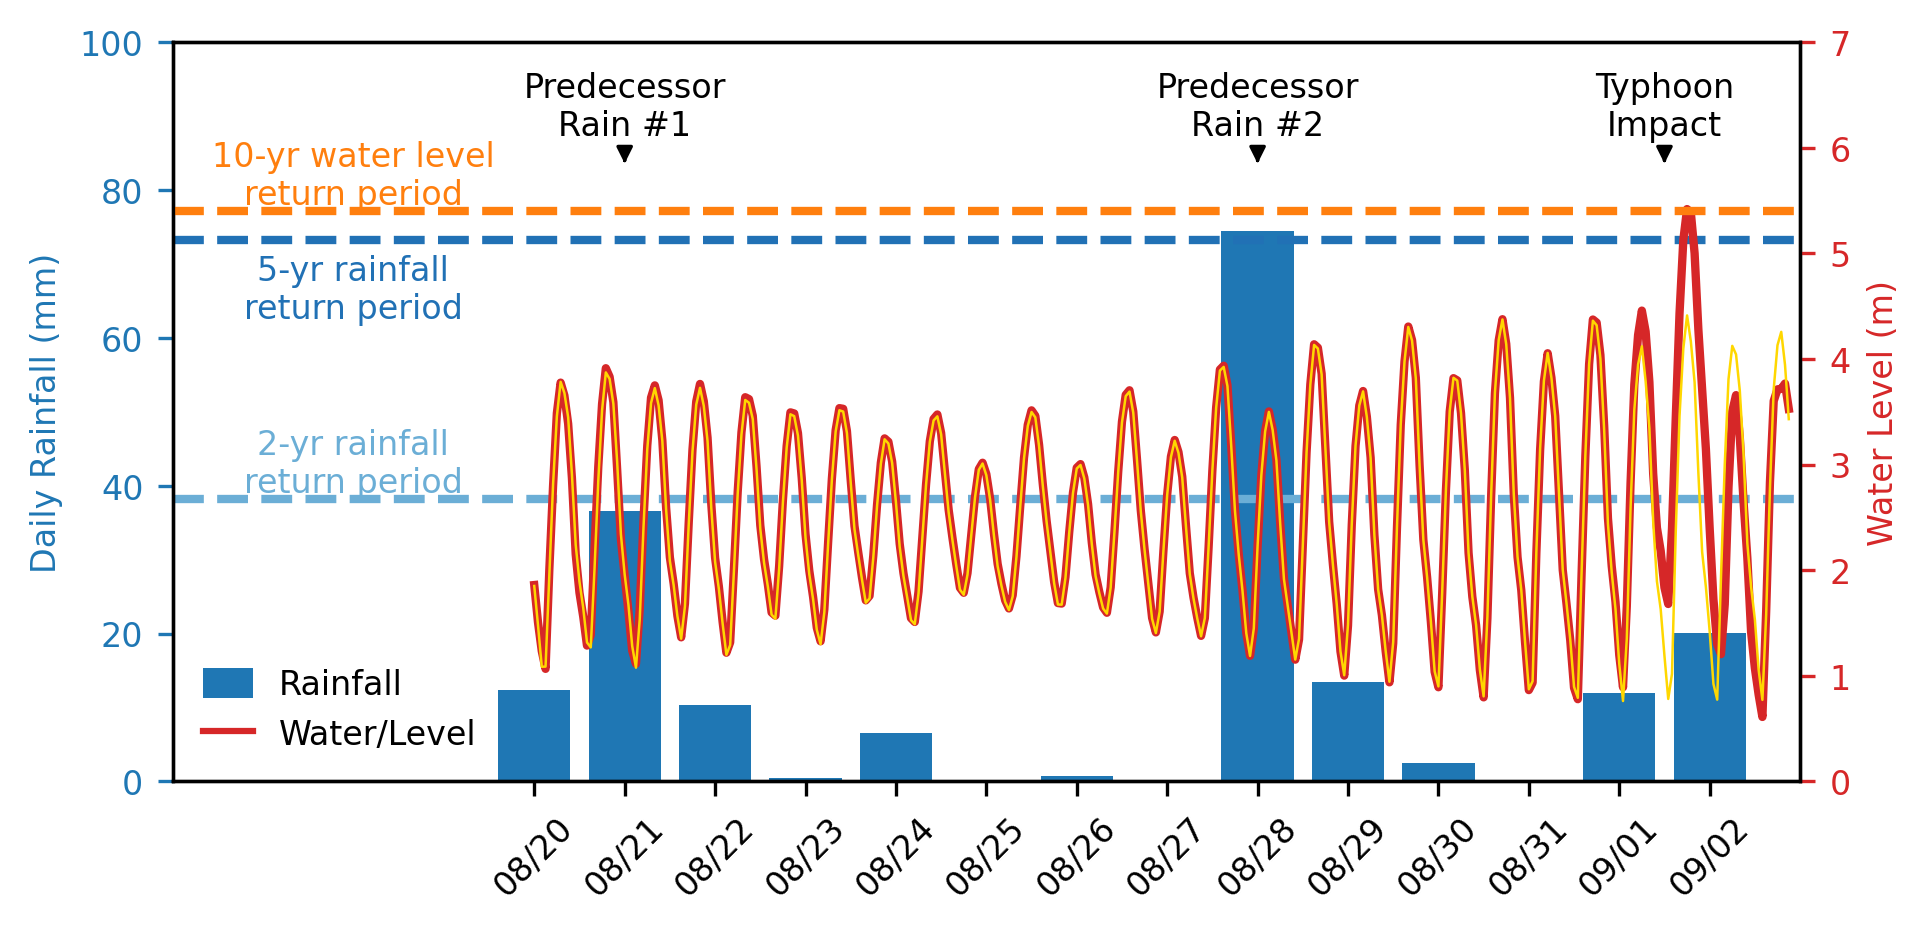
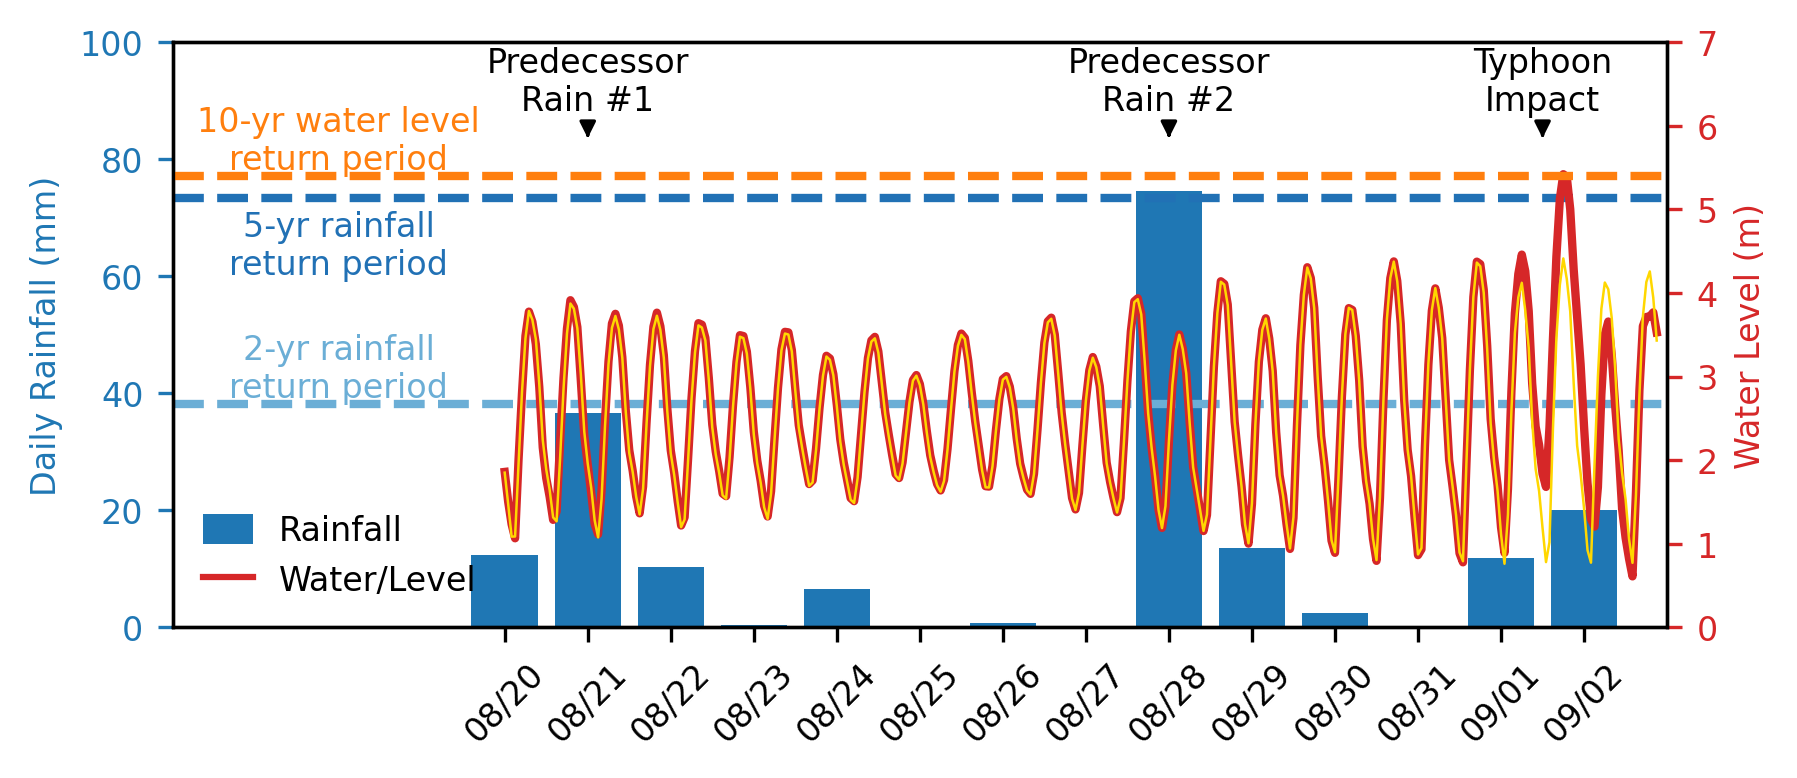
Match Fig 1 dimensions to manuscript (image2: 6.43x2.53 in)
Claude-Session: https://claude.ai/code/session_01TTmLm2TKvf5957eAzkuRzG

Changed region(s): [[0.0, 0.0308, 0.9972, 0.9563]]

diff --git a/Fig1_timeseries.py b/Fig1_timeseries.py
@@ -41,7 +41,8 @@ rain_clim = rain_subset[rain_subset["Year"] != 1905]
 
 # ── Figure ──────────────────────────────────────────────────────────────────
 plt.rcParams.update({"font.size": 8})
-fig, ax1 = plt.subplots(figsize=(7, 3.2), dpi=600)
+# match the manuscript figure dimensions (image2.pdf = 462.845 x 182.479 pt)
+fig, ax1 = plt.subplots(figsize=(6.428, 2.534), dpi=600)
 
 ## ax1: Bar plot of 1905 rainfall with non-parametric return level shading
 
